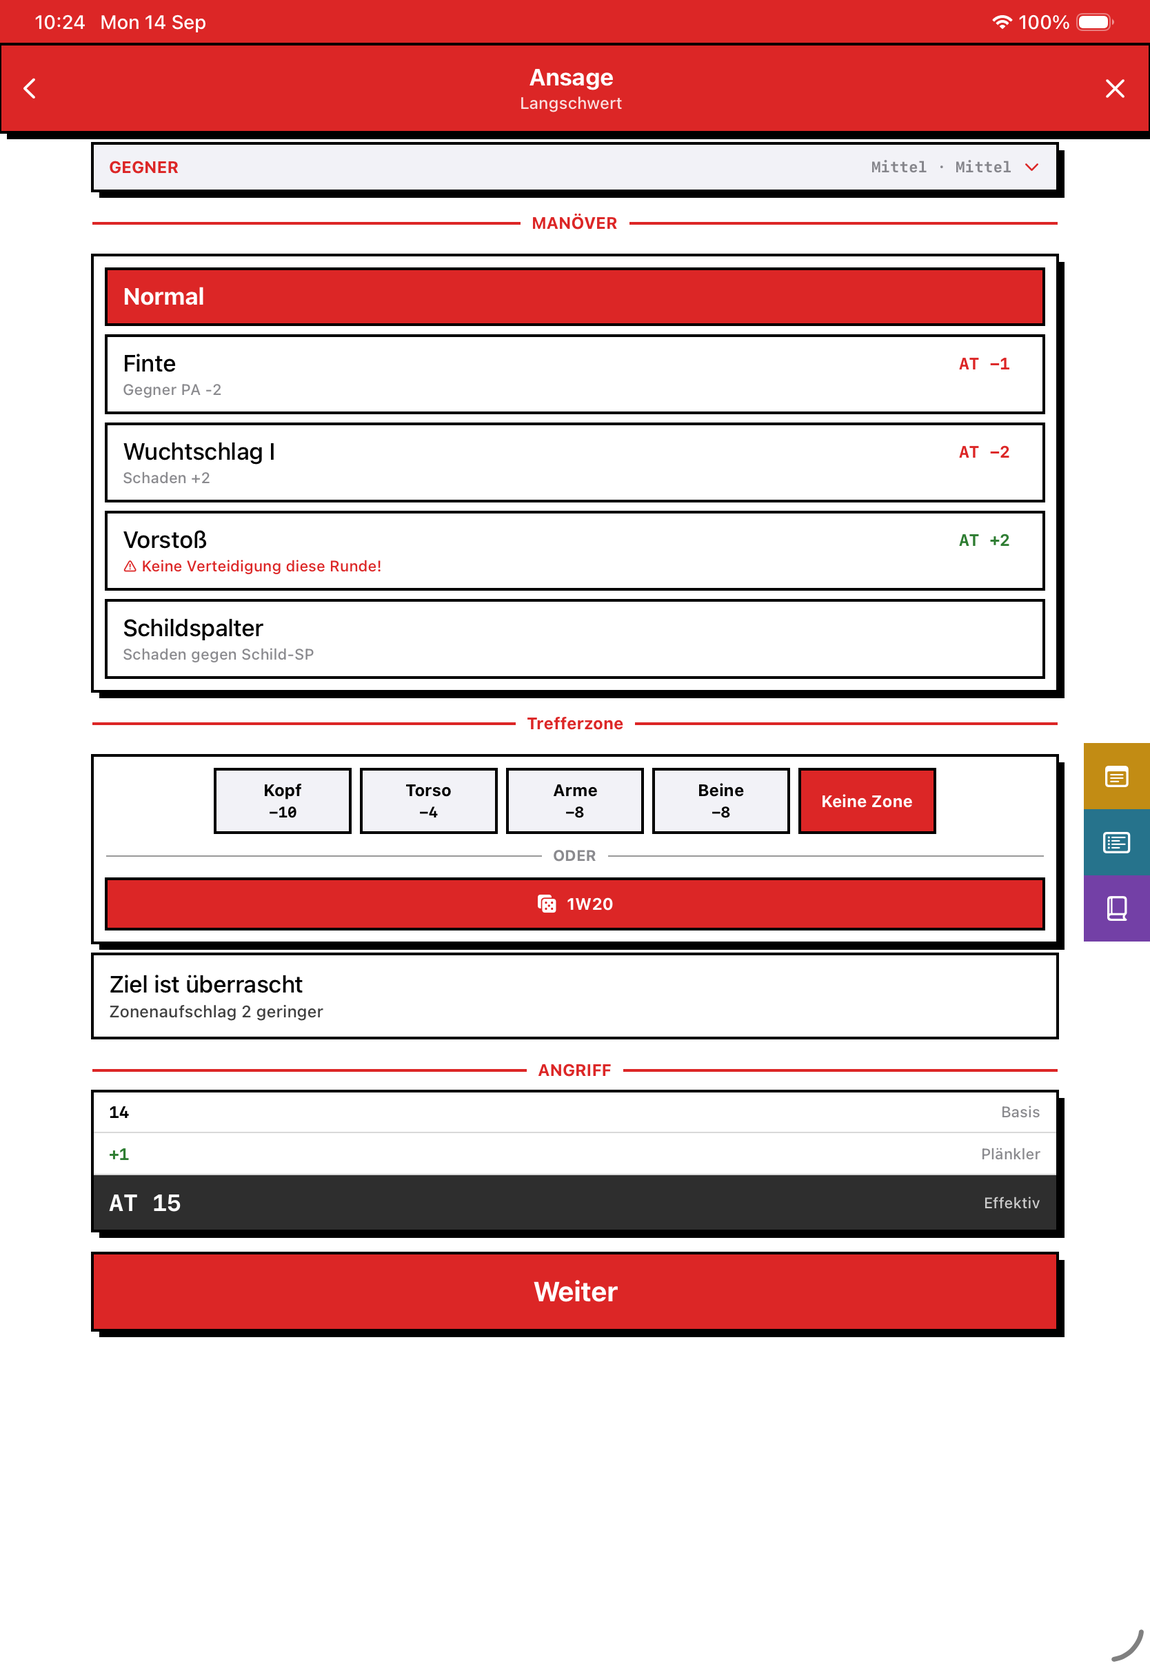
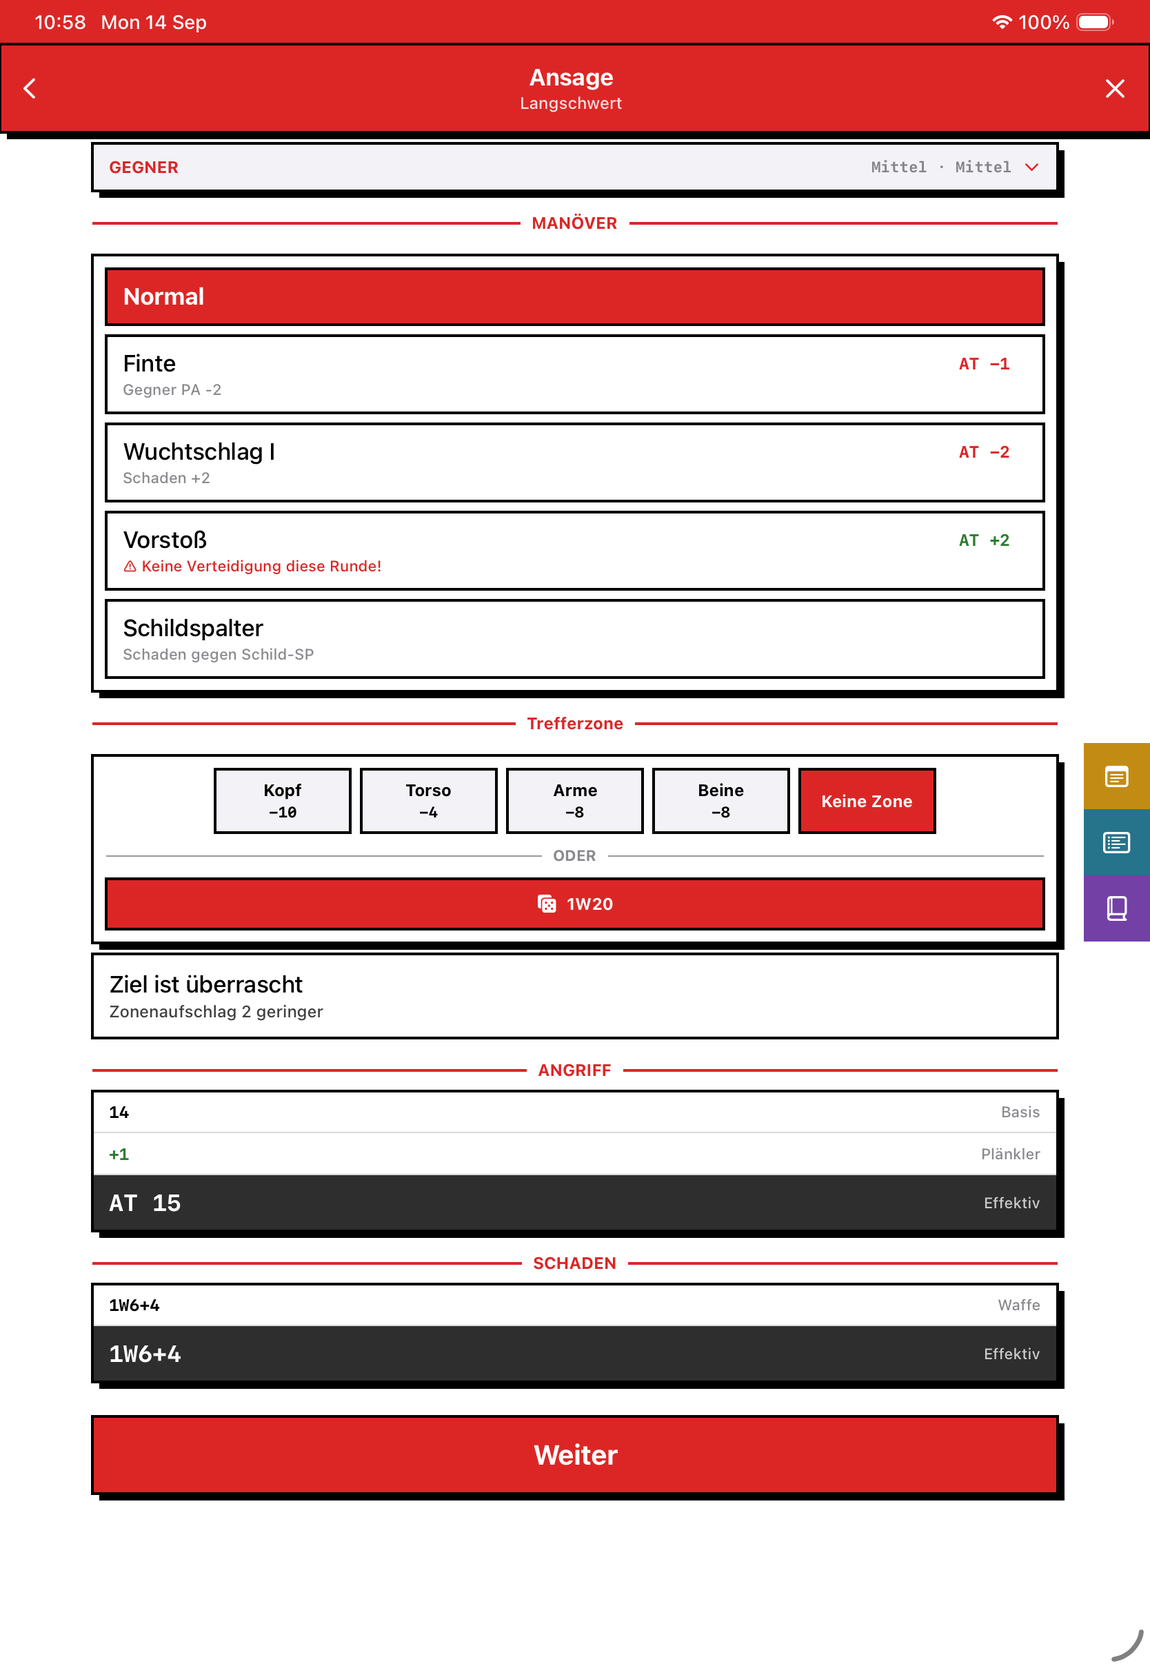
fix(combat): the hero deals Trefferpunkte and nothing else
The opponent's RS is gone, and with it the LP total it produced. I had the
boundary wrong: TP is what the hero produces and what the app computes; the
armour that stops some of them and the Lebenspunkte the target is left with
are the GM's arithmetic on a side this app does not model (ADR-0005).
"Verlorene Lebenspunkte" now appears only on the take-damage screen, where
the LP being reduced are the hero's own.

The two doublings are still worth showing in the order the rules put them,
so the Karmale-Objekte screenshot keeps its 36 TP: 5 + 4, doubled by the
Weihe, doubled again by the critical. Where it goes from there is not the
app's to say.

The "Weiter" on the announcement looked stuck to the calculation above it
for two reasons. The damage box was hidden whenever nothing modified the
damage, so an unmodified swing ended on the AT — it is always shown now, the
way the AT calculation always is, because "nothing is modifying this" is
itself the answer. And a raised box draws its shadow outside its bounds
while reserving no layout space for it (ADR-0008), so the nominal 8pt gap
came out at 3. `CombatActionButton` carries that clearance itself rather
than leaving five screens to remember it.

Changed region(s): [[0.0624, 0.7438, 0.9353, 0.8988]]

diff --git a/Hesindion/Views/CombatDefenseViews.swift b/Hesindion/Views/CombatDefenseViews.swift
@@ -59,15 +59,6 @@ struct CombatOpponentDefenseView: View {
     /// TP/KK bonus, and any ability or GM ruling the app does not model, has to be
     /// enterable or the reported total is simply wrong.
     @State private var extraDamageModifier: Int = 0
-    /// The opponent's armour, if the GM says what it is.
-    ///
-    /// Not persisted and not part of `OpponentProfile`: the RS of the thing in
-    /// front of the hero is the GM's to hand over or to withhold, and a value
-    /// carried from one fight to the next would be a claim the app is not
-    /// entitled to make. It exists so the multipliers can land on the right side
-    /// of the subtraction — a consecrated weapon doubles the TP *before* armour,
-    /// and with no RS on the screen there was nothing for "before" to mean.
-    @State private var opponentRS: Int = 0
     @State private var hasLoggedDamage: Bool = false
 
     var body: some View {
@@ -221,8 +212,6 @@ struct CombatOpponentDefenseView: View {
                     damageSection(parsed: parsed)
                     tpModifierBox
                         .padding(.top, 8)
-                    opponentRSBox
-                        .padding(.top, 8)
                 }
 
                 // Nothing is applied — the opponent has no LP to subtract from
@@ -243,10 +232,8 @@ struct CombatOpponentDefenseView: View {
                    damageFinalRolls != nil {
                     CombatBreakdownBox(
                         rows: damageRows(parsed: parsed),
-                        totalValue: "\(appliedTotal ?? 0) \(opponentRS > 0 ? "LP" : L("tp"))",
-                        // Trefferpunkte until the armour is taken off them; what
-                        // is left after it is life points the opponent loses.
-                        totalSource: opponentRS > 0 ? L("damage.totalAfterArmour") : L("damage.totalTP"),
+                        totalValue: "\(appliedTotal ?? 0) \(L("tp"))",
+                        totalSource: L("damage.totalTP"),
                         sectionLabel: L("calculation.label")
                     )
                     .padding(.top, 8)
@@ -264,7 +251,6 @@ struct CombatOpponentDefenseView: View {
                 // already been announced, silently, out of the reported total.
                 if showDamage, damageFormula == nil || damageFinalRolls != nil, !woundEffectPending {
                     neueAktionButton
-                        .padding(.top, 8)
                 }
             }
             .adaptiveContentWidth()
@@ -385,38 +371,6 @@ struct CombatOpponentDefenseView: View {
         .accessibilityIdentifier("combat.dealDamage.modifier")
     }
 
-    /// The opponent's armour. Left at zero it says so and changes nothing; the
-    /// row appears in the calculation either way once it is not zero, because
-    /// where the subtraction happens is the whole point of having it.
-    private var opponentRSBox: some View {
-        VStack(spacing: 0) {
-            DSAStepper(
-                decrementIcon: "arrow.down",
-                incrementIcon: "arrow.up",
-                tint: combatAccent,
-                decrementDisabled: opponentRS <= 0,
-                incrementIdentifier: "combat.dealDamage.increaseOpponentRS",
-                onDecrement: { if opponentRS > 0 { opponentRS -= 1 } },
-                onIncrement: { opponentRS += 1 }
-            ) {
-                Text("\(opponentRS)")
-                    .font(.dsaHeading(.title3))
-                    .fontDesign(.monospaced)
-                    .padding(.vertical, 10)
-            }
-            .frame(maxWidth: .infinity)
-            Text(L("damage.opponentRS"))
-                .font(.dsaBody(.caption2))
-                .foregroundStyle(.secondary)
-                .multilineTextAlignment(.center)
-                .padding(.top, DSALayout.shadowOffset + 4)
-        }
-        // `children: .contain`, or the identifier below merges the stepper's two
-        // buttons into this one element and takes their identifiers with them.
-        .accessibilityElement(children: .contain)
-        .accessibilityIdentifier("combat.dealDamage.opponentRS")
-    }
-
     // MARK: - Reported total
 
     /// One row per part of the damage, in the order they apply.
@@ -461,12 +415,6 @@ struct CombatOpponentDefenseView: View {
         if let extra = woundEffectDamage, extra > 0 {
             rows.append(.signed(extra, L("trefferzone.woundEffect")))
         }
-        // Armour last. Both multipliers above it act on the Trefferpunkte, and
-        // the rules subtract armour from what they produce — "die Würfel werden
-        // geworfen, verdoppelt, dann wird der Rüstungsschutz abgezogen".
-        if opponentRS > 0 {
-            rows.append(.signed(-opponentRS, L("damage.opponentRS.row")))
-        }
         return rows
     }
 
@@ -479,15 +427,18 @@ struct CombatOpponentDefenseView: View {
         return criticalDamage.apply(to: damageMultiplier.apply(to: raw))
     }
 
-    /// The weapon's damage plus any settled Wundeffekt, less the opponent's
-    /// armour. `nil` until the dice are finalised, since there is nothing to
-    /// total before then.
+    /// The weapon's damage plus any settled Wundeffekt. `nil` until the dice are
+    /// finalised, since there is nothing to total before then.
+    ///
+    /// Trefferpunkte, and only ever Trefferpunkte. What the hero produces is TP;
+    /// the armour that stops some of them and the life points that are left are
+    /// the other side's, and the app does not model the other side (ADR-0005).
     private var appliedTotal: Int? {
         guard let formula = damageFormula,
               let parsed = DamageFormula.parse(formula),
               let rolls = damageFinalRolls else { return nil }
         _ = rolls
-        return max(0, weaponDamageTotal(parsed: parsed) + (woundEffectDamage ?? 0) - opponentRS)
+        return weaponDamageTotal(parsed: parsed) + (woundEffectDamage ?? 0)
     }
 
     /// What the announcement left on the other side's defence. Halving is not a

diff --git a/HesindionUITests/KarmalWeaponFlowTests.swift b/HesindionUITests/KarmalWeaponFlowTests.swift
@@ -98,13 +98,13 @@ final class KarmalWeaponFlowTests: XCTestCase {
         )
     }
 
-    /// Two doublings and an armour, in the order the rules put them.
+    /// Two doublings on one hit, each naming where it came from.
     ///
     /// A confirmed critical against a demon of the weapon's opposing deity:
     /// 1W6+4 with a scripted 5 is 9, doubled by the Weihe and doubled again by
-    /// the critical is 36, and the opponent's armour comes off *after* both —
-    /// "die Würfel werden geworfen, verdoppelt, dann wird der Rüstungsschutz
-    /// abgezogen". 36 − 4 = 32 LP. Subtracting the armour first would give 26.
+    /// the critical — 36 Trefferpunkte. What the armour stops and what the
+    /// opponent is left with is the GM's arithmetic; the app states the TP and
+    /// stops there (ADR-0005).
     @MainActor
     func testACriticalAgainstTheOpposingDeityDoublesTwiceBeforeArmour() {
         continueAfterFailure = false
@@ -151,19 +151,13 @@ final class KarmalWeaponFlowTests: XCTestCase {
         XCTAssertTrue(breakdown.waitForExistence(timeout: UITest.timeout), "No damage calculation")
         XCTAssertTrue(app.staticTexts["36 TP"].exists, "9 doubled twice is 36")
 
-        // The opponent's armour, entered by hand and kept nowhere.
-        let moreRS = app.buttons["combat.dealDamage.increaseOpponentRS"]
-        XCTAssertTrue(moreRS.waitForExistence(timeout: UITest.timeout), "No opponent RS control")
-        _ = app.scrollUntilHittable(moreRS)
-        for _ in 0..<4 { moreRS.tap() }
-
-        XCTAssertTrue(
-            app.staticTexts["32 LP"].waitForExistence(timeout: UITest.timeout),
-            "Armour comes off after both doublings: 36 - 4 = 32, not 26"
-        )
         // Each multiplier says where it came from, not that it affects damage.
         XCTAssertTrue(app.staticTexts["Geweihte Waffe der Gegengottheit"].exists)
         XCTAssertTrue(app.staticTexts["Kritischer Treffer"].exists)
+
+        // The hero deals Trefferpunkte. Life points are the other side's, and
+        // the app must not claim to know what the hit left them with.
+        XCTAssertFalse(app.staticTexts["Verlorene Lebenspunkte"].exists)
 
         app.scrollUntilHittable(breakdown, maxSwipes: 4)
         captureScreenshot(app, named: "42-damage-karmal-critical")

diff --git a/Hesindion/Views/CombatAttackViews.swift b/Hesindion/Views/CombatAttackViews.swift
@@ -524,7 +524,6 @@ struct CombatAnnouncementView: View {
                         title: L("continue"),
                         identifier: "combat.announcement.continue"
                     ) { proceed() }
-                    .padding(.top, 8)
                 }
                 .adaptiveContentWidth()
                 .padding(.top, 8)
@@ -897,7 +896,11 @@ struct CombatAnnouncementView: View {
     /// against the rulebook. Hidden when the weapon's damage is all there is.
     @ViewBuilder
     private var damageBreakdown: some View {
-        if let formula = damageFormula, !damageBonusLines.isEmpty || karmalDamage != .unchanged {
+        // Always, not only when something modifies it. What the attack will hit
+        // for is half of what this screen is announcing, and hiding the box on
+        // an unmodified swing left the screen ending on the AT with the "Weiter"
+        // apparently welded to it.
+        if let formula = damageFormula {
             CombatBreakdownBox(
                 rows: damageRows(formula),
                 totalValue: effectiveDamageLabel(formula),

diff --git a/Hesindion/Theme/Strings.swift b/Hesindion/Theme/Strings.swift
@@ -258,9 +258,6 @@ enum DSAStrings {
         "source.additional":    "Entered by hand",
         "source.effective":     "Effective",
         "damage.totalTP":       "Total hit points",
-        "damage.totalAfterArmour": "Life points lost",
-        "damage.opponentRS":    "Opponent's armour, if you know it (not kept)",
-        "damage.opponentRS.row": "Opponent's RS",
         "source.mounted":       "Mounted",
         "source.shield":        "Shield",
         "mountAttacks.label":   "MOUNT ATTACKS",
@@ -918,9 +915,6 @@ enum DSAStrings {
         "source.additional":    "Von Hand eingetragen",
         "source.effective":     "Effektiv",
         "damage.totalTP":       "Gesamte Trefferpunkte",
-        "damage.totalAfterArmour": "Verlorene Lebenspunkte",
-        "damage.opponentRS":    "Rüstungsschutz des Gegners, falls bekannt (wird nicht gespeichert)",
-        "damage.opponentRS.row": "RS des Gegners",
         "source.mounted":       "Beritten",
         "source.shield":        "Schild",
         "mountAttacks.label":   "REITTIER-ANGRIFFE",

diff --git a/Hesindion/Views/CombatActionButton.swift b/Hesindion/Views/CombatActionButton.swift
@@ -22,6 +22,15 @@ struct CombatActionButton: View {
     var isEnabled: Bool = true
     let action: () -> Void
 
+    /// The gap this button keeps from whatever is above it.
+    ///
+    /// A raised box draws its shadow *outside* its bounds and reserves no layout
+    /// space for it (ADR-0008), so a nominal 8pt gap comes out as 3 and the
+    /// action reads as the last row of the calculation it follows. The button
+    /// carries the clearance itself rather than leaving every screen to
+    /// remember it.
+    static let topGap: CGFloat = DSALayout.shadowOffset + 12
+
     @ViewBuilder
     var body: some View {
         if let identifier {
@@ -32,6 +41,10 @@ struct CombatActionButton: View {
     }
 
     private var button: some View {
+        content.padding(.top, Self.topGap)
+    }
+
+    private var content: some View {
         Button(action: action) {
             HStack(spacing: 8) {
                 if let icon {

diff --git a/Hesindion/Views/CombatSetupViews.swift b/Hesindion/Views/CombatSetupViews.swift
@@ -178,7 +178,6 @@ struct CombatSetupView: View {
                         CombatLoadoutPicker.apply(selected: selected, ranged: selectedRanged, to: hero)
                         step = .initiativeRoll
                     }
-                    .padding(.top, 16)
                 }
                 .adaptiveContentWidth()
                 .padding(.bottom, 16)
@@ -453,7 +452,6 @@ struct CombatLoadoutEquipmentView: View {
                         CombatLoadoutPicker.apply(selected: selected, ranged: selectedRanged, to: hero)
                         step = .root
                     }
-                    .padding(.top, 16)
                 }
                 .adaptiveContentWidth()
                 .padding(.bottom, 16)

diff --git a/Hesindion/Views/CombatFernkampfViews.swift b/Hesindion/Views/CombatFernkampfViews.swift
@@ -83,7 +83,6 @@ struct CombatFernkampfSetupView: View {
                     modifierSummary
 
                     continueButton
-                        .padding(.top, 8)
                 }
                 .adaptiveContentWidth()
                 .padding(.bottom, 16)

diff --git a/AGENTS.md b/AGENTS.md
@@ -65,7 +65,7 @@ Three known intermittent failures — none of them regressions:
 - **`combatSetup` is the preparation screen** and every hero sees it: the armour (`CombatArmorPicker`), the loadout (`CombatLoadoutPicker`), Plänkler-Formation, mount and Beengte Umgebung. The armour used to be a screen of its own ahead of it and the weapon two steps *after* the initiative roll, so nothing before the first attack showed what the hero was about to fight with. `loadoutEquipment` is the mid-fight "Ausrüstung wechseln" screen only, reached from the root and returning to it
 - **`OpponentProfile` is everything the app has been told about the other side**, held by `CombatView` so it outlives one attack. The shape of an opponent lasts the fight (reach, body plan, size, demon); their posture lasts the swing (`resetPerAttack`). The reach used to be asked for again on every single attack and the hit-zone table was the *hero's*, which is the wrong table for anything that is not another person
 - **A modifier row names its source, not its category.** "Auswirkung auf den Schaden" told the reader what they could already see; the row says *Kritischer Treffer*, *Schwerer Treffer*, *Geweihte Waffe der Gegengottheit*, *Von Hand eingetragen*. A multiplier carries the name of the result that produced it (`criticalDamageSource`) rather than being identified by what it does
-- **Multipliers act on the Trefferpunkte; armour comes off what they produce.** Karmale Objekte doubles the rolled TP *before* the Rüstungsschutz, and so does a critical, so the opponent's RS is the last row of the damage calculation. It is entered by hand and kept nowhere — the RS of the thing in front of the hero is the GM's to hand over or withhold, and a value carried between fights would be a claim the app is not entitled to make
+- **The hero deals Trefferpunkte, full stop.** TP is what the app computes and reports; the Rüstungsschutz that stops some of them and the Lebenspunkte the target is left with belong to the other side, which is not modelled (ADR-0005). "Verlorene Lebenspunkte" is only ever said on the take-damage screen, where the LP being reduced are the hero's own
 - **A penalty on the opponent is not a bonus for the hero.** Liegend is −2 on *their* defence and the rules give the attacker nothing for it; a Finte the same. They go in `OpponentProfile.defenseModifiers` and are printed as their own calculation — on the announcement and again on the damage screen, which is where the GM needs the figure
 - **Attack flow**: attackChoice → weaponSelection → announcement (maneuvers, reach, modifiers) → execution (AT roll) → opponentDefense (Pariert/Ausgewichen/Treffer) → damage
 - **Defense flow**: PA/AW roll → outcome → fumbleChoice on Patzer, Passierschlag on critical PA
@@ -91,7 +91,7 @@ Three known intermittent failures — none of them regressions:
 - **An open question holds the way out.** While the Wundeffekt is still asking — the opponent's check unanswered, or a failed check whose damage is unsettled — the damage screen does not offer "Neue Aktion". Two live controls that mean "answer this" and "leave without answering" read as though the question were optional, and leaving drops an announced Wundeffekt out of the reported total
 - **A screen that writes something says what it wrote.** The take-damage confirm reports the life points that remain and every state that went up (`CombatDamageOutcomeBox`), by comparing against a snapshot taken before the write — Schmerz is derived from the LP total and moves without any step of the flow touching it
 - **A question most attacks do not answer folds.** `CombatDisclosureSection` — shut by default, with what is set inside readable on the lid. The announcement's opponent facts were four separate things in three places (reach at the top, Vorteilhafte Position loose above it, "Ziel ist überrascht" buried in the zone picker, the demon question below it); they are all the same kind of fact and most swings answer none of them
-- **One primary action, one button.** `CombatActionButton` draws "Weiter", "Bestätigen" and "Neue Aktion": same size, same box, in the content column at the end of the flow. "Weiter" used to be pinned edge to edge below the scroll view, which reads as a tab bar rather than as the next step
+- **One primary action, one button.** `CombatActionButton` draws "Weiter", "Bestätigen" and "Neue Aktion": same size, same box, in the content column at the end of the flow, and it carries its own clearance (`topGap`) — a raised box's shadow draws outside its bounds and reserves no layout space, so a nominal 8pt gap comes out as 3 and the action reads as the last row of the calculation above it. "Weiter" used to be pinned edge to edge below the scroll view, which reads as a tab bar rather than as the next step
 - **The Wundschwelle is core, the Wundeffekt is not**: the take-damage screen states the comparison against the hero's Wundschwelle whether or not the Trefferzonen Fokus-Regel is on (`CombatWundschwelleRow`); the zone effect, its Selbstbeherrschung probe and its extra damage stay behind the rule (`CombatWoundEffectPanel`). Only one of the two prints the comparison at a time
 - **Damage parts travel apart**: `CombatStep` carries the weapon's own `damageFormula` *and* `damageLines`, never a pre-folded string, so the damage screen can print every part and no screen can add the same bonus twice. `CombatBreakdownBox` renders both the AT/PA/AW and the TP calculation
 - **`DamageModifiers`** (`Hesindion/Engine/DamageModifiers.swift`) is the same idea for TP: Wuchtschlag, the two-handed grip, Sturmangriff and Golgariten-Stil's +1 TP, as lines *and* as the adjusted formula from one call, so the box the player reads cannot drift from the formula the dice get. `DamageFormula` parses and rewrites the damage string; nothing else should carry a copy of that regex

diff --git a/CHANGELOG.md b/CHANGELOG.md
@@ -51,7 +51,7 @@ The format is based on [Keep a Changelog](https://keepachangelog.com/en/1.0.0/).
 
 ### Added
 
-- **The opponent's Rüstungsschutz, entered by hand and kept nowhere.** Two rules double the Trefferpunkte *before* armour is subtracted — a critical and a consecrated weapon against its opposing deity — and with no RS on the screen there was nothing for "before" to mean. 5 + 4, doubled twice, is 36 TP; less an RS of 4 it is 32 LP, where subtracting first would have given 26. Not persisted: the RS of the thing in front of the hero is the GM's to hand over or to withhold
+- **The announcement always shows what the attack will hit for**, not only when a manoeuvre adds to it — the damage is half of what the screen is announcing, and on an unmodified swing the screen used to end on the AT with "Weiter" apparently welded to it. `CombatActionButton` also carries its own clearance now: a raised box's shadow draws outside its bounds and reserves no layout space, so the nominal gap came out at 3pt and the action read as the calculation's last row
 - **A modifier row says where it comes from.** "Auswirkung auf den Schaden" named the category of the thing, which is the one part the reader could already see. The rows now say *Kritischer Treffer*, *Schwerer Treffer* (the table's own result, where the Fokusregel is in play), *Geweihte Waffe der Gegengottheit* and *Von Hand eingetragen*
 - **A reminder that an action can be delayed**, in the combat root's AKTION section. Not a button — delaying is something the player says to the table and the app has no turn order to reorder — but the option is easy to forget and there was nowhere else it would be read from
 - **The opponent is a thing the app knows about now** (`OpponentProfile`), not a question re-asked on every swing. Their weapon's reach, the body plan and size their hit zones are rolled on, and whether they are a demon last as long as the fight; whether they are surprised, on the ground or out-positioned lasts the swing. It all lives in one folded GEGNER section on the announcement — shut by default, with what is set readable on the lid, because most attacks answer none of it
